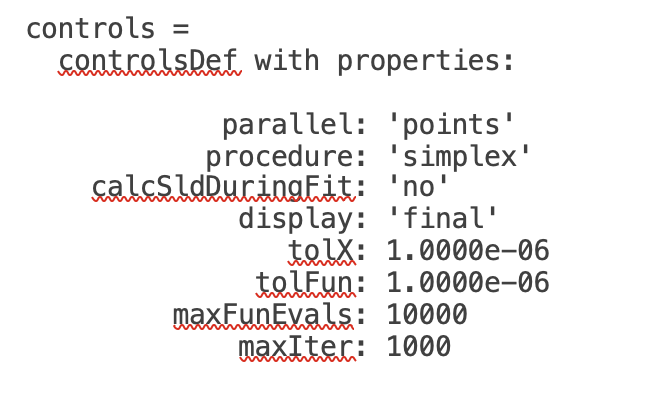
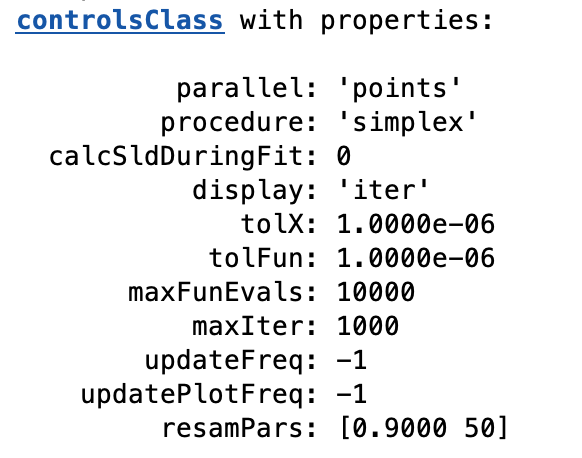
updated the docs

Changed region(s): [[0.0619, 0.243, 0.866, 0.9722], [0.0309, 0.0, 0.866, 0.2127], [0.8041, 0.9114, 0.8969, 0.9722]]

diff --git a/docs/source/chapter3.rst b/docs/source/chapter3.rst
@@ -397,7 +397,7 @@ Our final projectClass looks like this:
 .. image:: images/userManual/chapter3/dispProblem2.png
     :alt: Displays project class (second half)
 
-To run this, we make a controls block as before, and pass this to RAT. This time we will do a Bayesian analysis (we will discuss the controls block and available algorithms in more detail in Chapter 4).
+To run this, we make a controls block as before, and pass this to RAT. This time we will do a DREAM analysis (we will discuss the controls block and available algorithms in more detail in Chapter 4).
 
 .. code:: MATLAB
 

diff --git a/docs/source/api.rst b/docs/source/api.rst
@@ -405,6 +405,14 @@ if yes, what to parallelize on. (Points or Contrasts or all)
         controls.repeats = 3;
         controls.parallel = 'contrasts';
 
+.. code-block:: MATLAB
+    :caption: Alternate usage of controlsClass.
+
+        controls = controlsClass();
+        controls = controls.setProcedure('dream',...
+                                         {'nSamples', 6000,...
+                                          'nChains', 10,...
+                                          'parallel', 'contrasts'})
 
 RAT 
 ====
